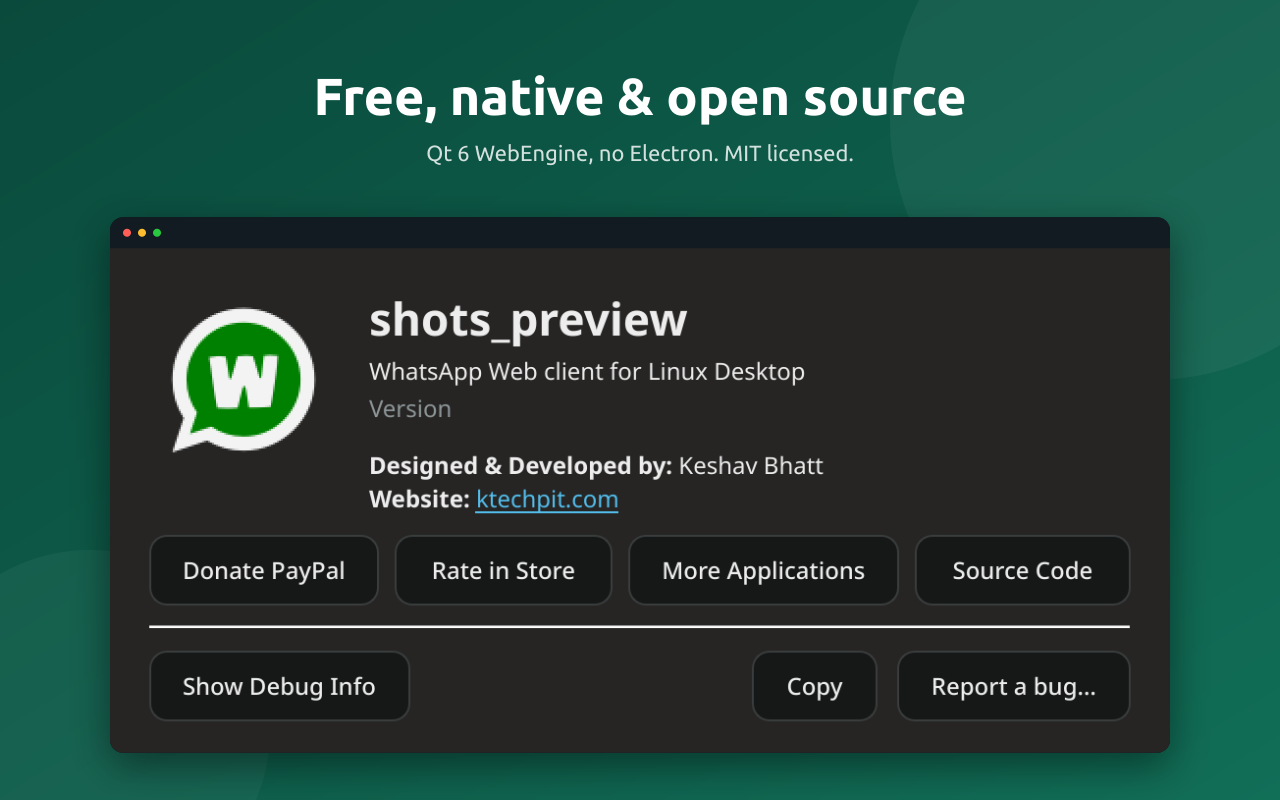
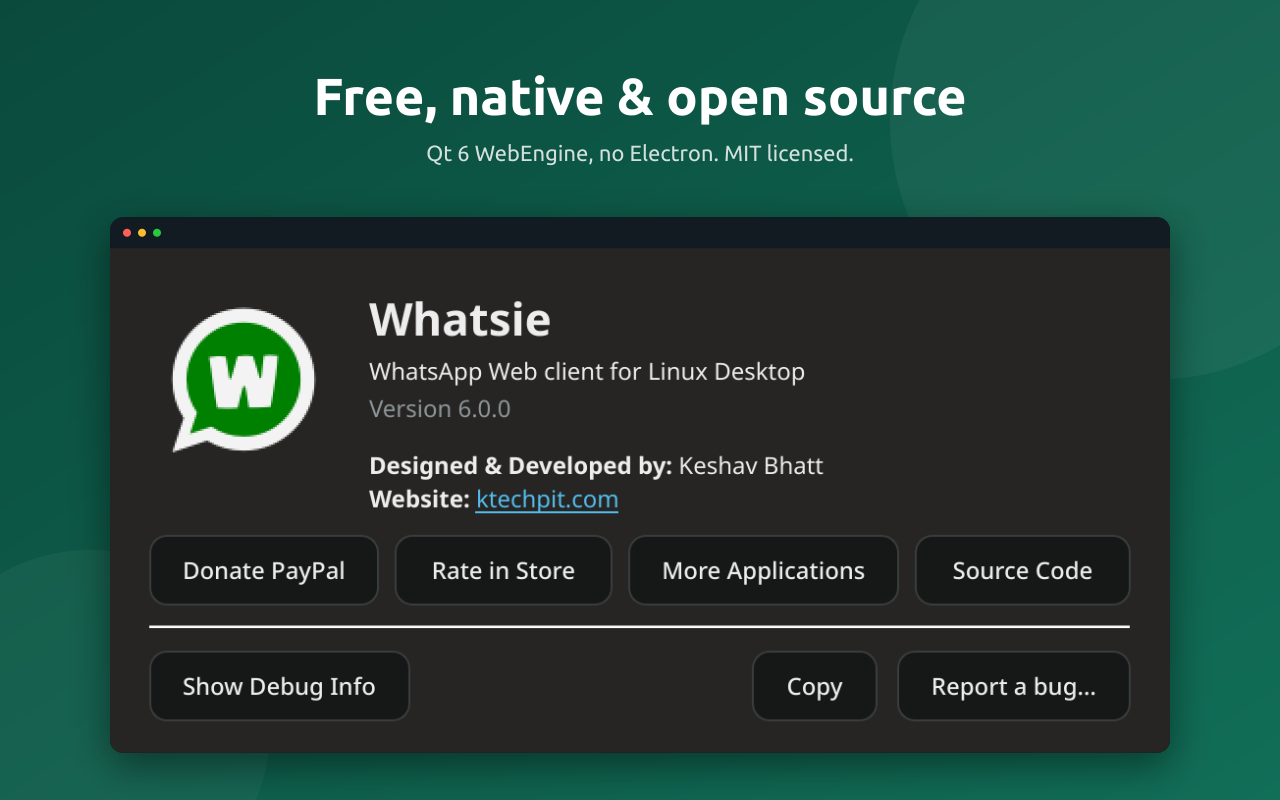
docs(readme): add a real WhatsApp Web hero shot; fix About screenshot identity
- Add a hero screenshot of WhatsApp Web's login page (fresh profile, no
  private data) framed in the app window, so the gallery shows the actual
  WhatsApp interface.
- Re-render the About screenshot with the real app identity (was showing
  the preview binary name and an empty version).

Changed region(s): [[0.2812, 0.375, 0.5312, 0.4375], [0.3438, 0.5, 0.4062, 0.5312]]

diff --git a/README.md b/README.md
@@ -29,6 +29,10 @@ starts fast and stays light.
 
 ## Screenshots
 
+<p align="center">
+  <img src="screenshots/00-hero.png" alt="WhatsApp Web running in the Whatsie window" width="100%">
+</p>
+
 <table>
   <tr>
     <td width="50%"><img src="screenshots/01-lock.png" alt="Passcode lock screen"></td>
